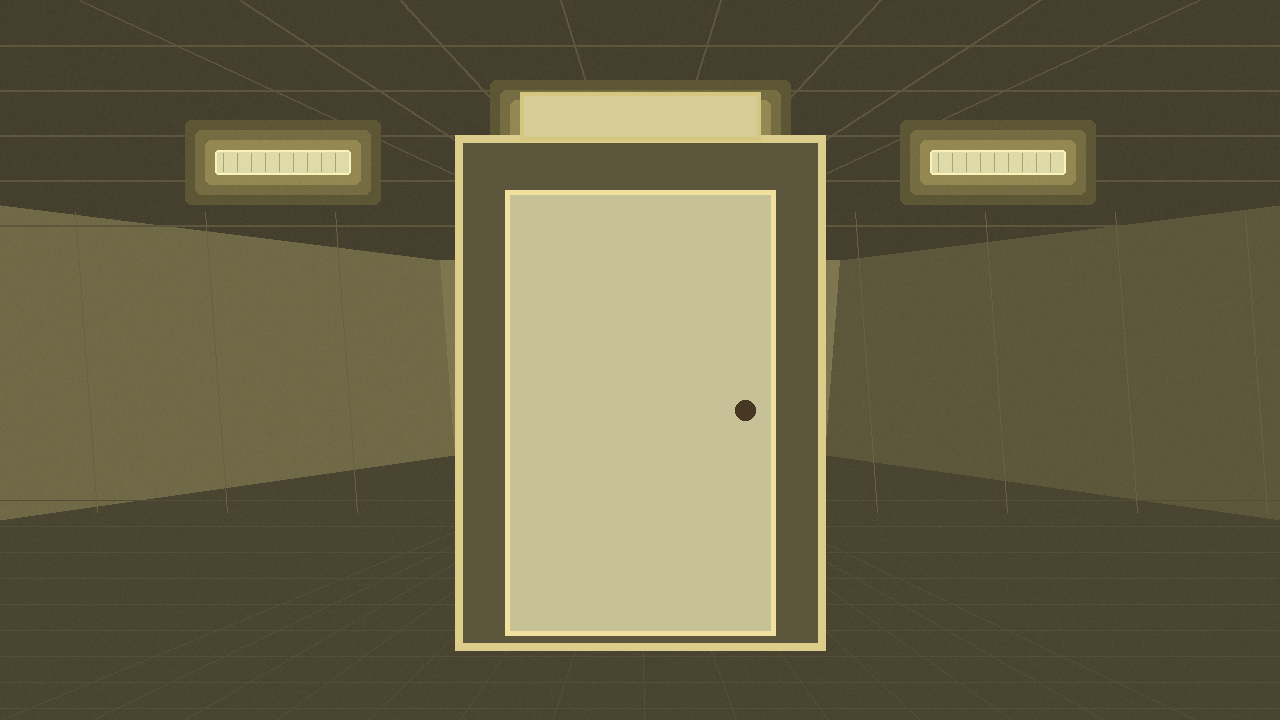
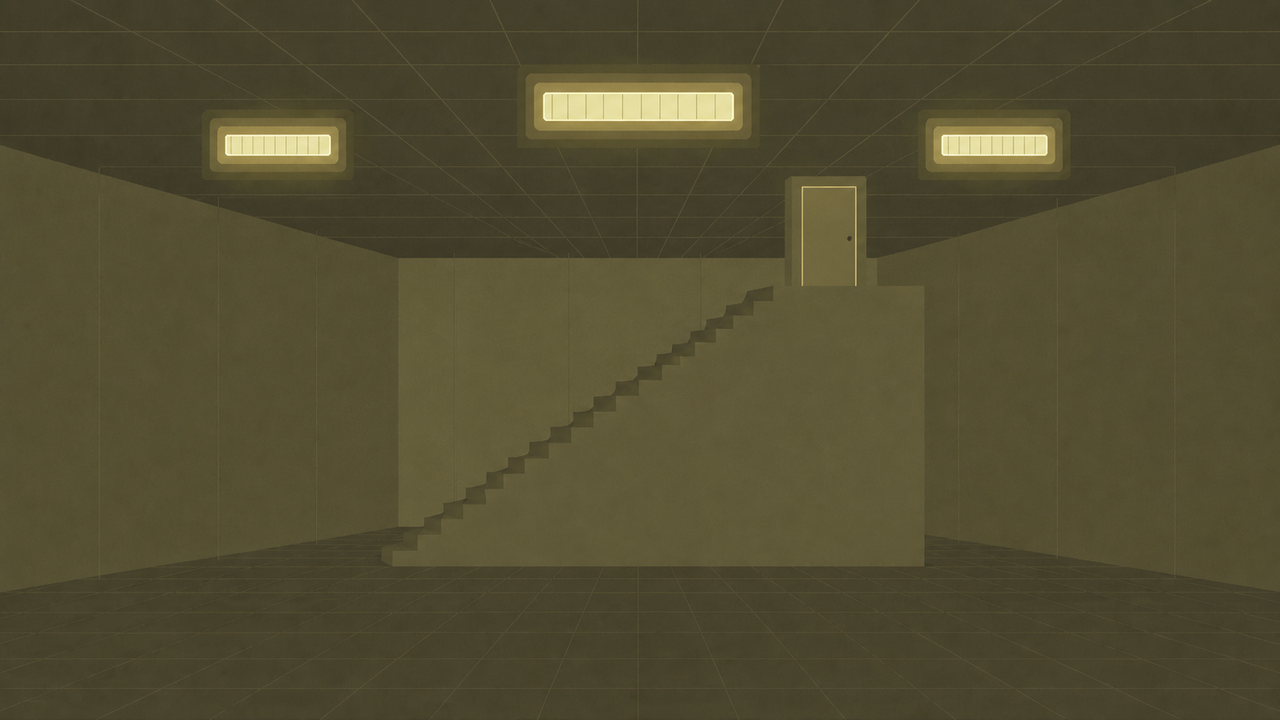
Replace true exit room background

diff --git a/tools/generate_assets.py b/tools/generate_assets.py
@@ -20,6 +20,7 @@ LEFT_BLOOD_PATH_REFERENCE = SOURCE / "left_blood_path_reference.png"
 LEFT_SWITCH_ROOM_REFERENCE = SOURCE / "left_switch_room_reference.png"
 RIGHT_PANEL_PATH_REFERENCE = SOURCE / "right_panel_path_reference.png"
 RIGHT_DEAD_END_REFERENCE = SOURCE / "right_dead_end_reference.png"
+TRUE_EXIT_ROOM_REFERENCE = SOURCE / "true_exit_room_reference.png"
 W, H = 1280, 720
 
 # Current visual mode is a polished placeholder: positions stay readable, but
@@ -430,6 +431,9 @@ def scene_right_dead_end() -> Image.Image:
 
 
 def scene_true_exit_room() -> Image.Image:
+    if TRUE_EXIT_ROOM_REFERENCE.exists():
+        return cover_reference(TRUE_EXIT_ROOM_REFERENCE)
+
     img, draw = blockout_room("BLOCKOUT: TRUE_EXIT_ROOM")
     draw.rectangle((455, 135, 825, 650), fill=(92, 86, 60), outline=(220, 205, 138), width=8)
     draw.rectangle((505, 190, 775, 635), fill=(198, 193, 150), outline=(240, 226, 158), width=5)
